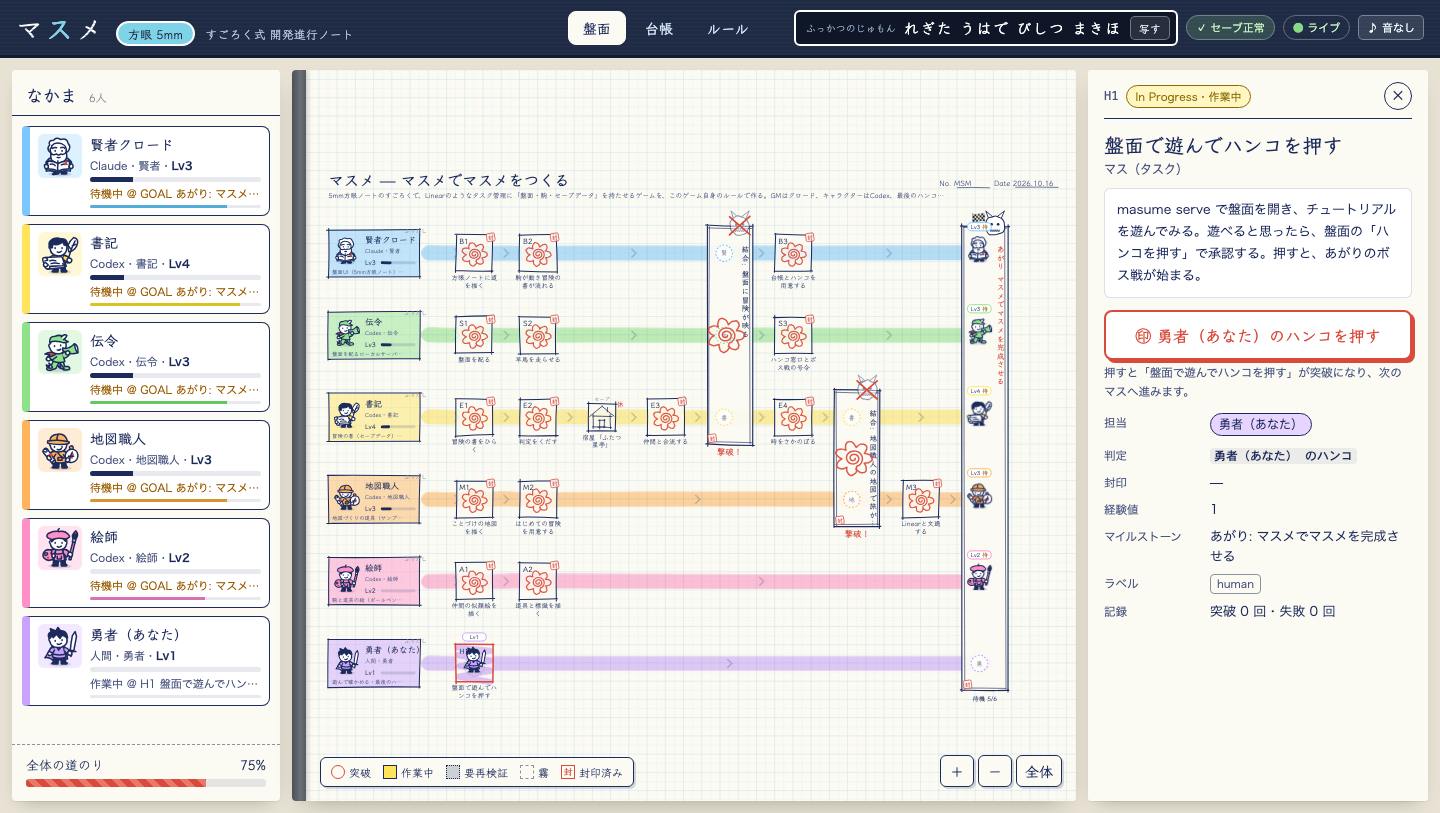
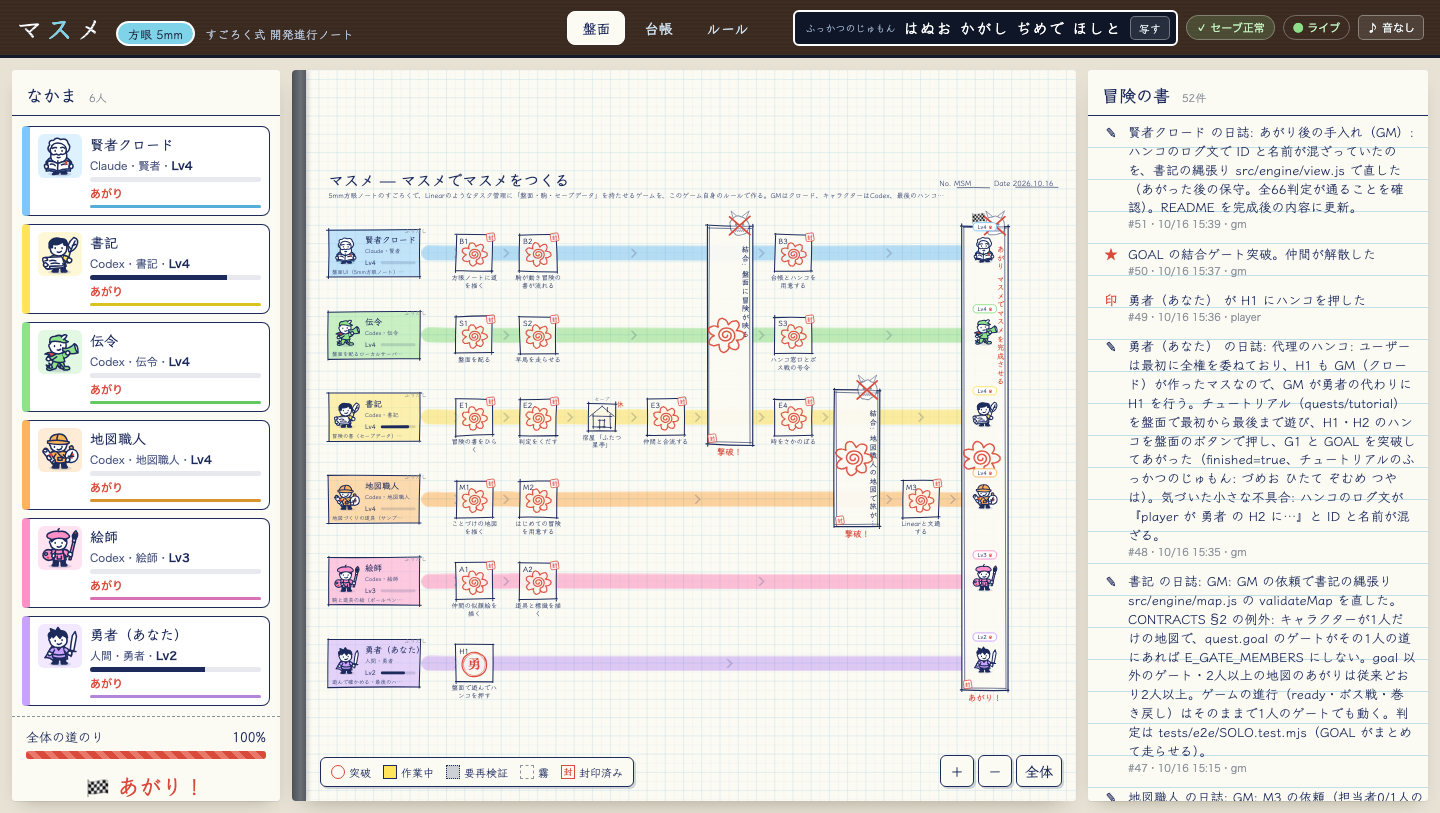
あがり: H1 のハンコでマスメの冒険を完走する
- 全権を委ねられた GM が勇者の代理として H1 を行った。チュートリアルを盤面で最後まで遊び、
  H1・H2 のハンコを盤面のボタンで押してあがれることを確かめてから、マスメ本体の H1 にハンコを押した
- 6人がそろってあがりのボス戦（全66判定）に勝ち、全員あがり（冒険の書 seq 50）
- ハンコのログ文で ID と名前が混ざっていたのを直した（src/engine/view.js）
- README と盤面の画像を完成後の内容にした

ふっかつのじゅもん: はぬお かがし ぢめで ほしと（seq 51）

diff --git a/src/engine/view.js b/src/engine/view.js
@@ -51,10 +51,12 @@ function logEntry(event, map) {
       text = `${node} のボス戦で${all ? '全滅' : '差し戻し'}: ${names.join('、')}`;
       break;
     }
-    case 'stamped':
+    case 'stamped': {
       ok = true;
-      text = `${data.by} が ${name} の ${node} にハンコを押した`;
+      const by = map?.characters.find(({ id }) => id === data.by)?.name ?? data.by;
+      text = data.by === character ? `${name} が ${node} にハンコを押した` : `${by} が ${name} の ${node} にハンコを押した`;
       break;
+    }
     case 'note': text = `${name} の日誌: ${data.text}`; break;
     case 'amended': text = `地図が第${data.version}版に改訂された`; break;
     case 'loaded': text = `冒険の書の seq ${data.to_seq} の状態をロードした`; break;
